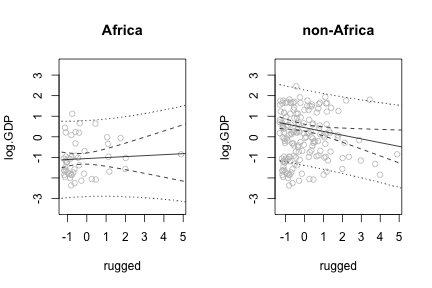
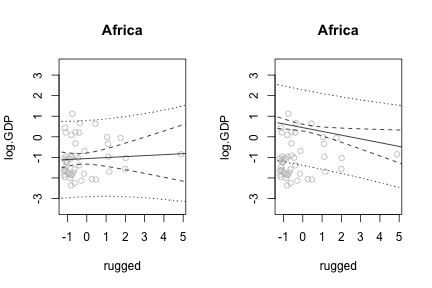
revised to include plotting code

diff --git a/hw6ashander.tex b/hw6ashander.tex
@@ -1,5 +1,4 @@
-%% lyx 2.1.0svn created this file.  For more info, see http://www.lyx.org/.
-%% Do not edit unless you really know what you are doing.
+
 \documentclass{article}
 \usepackage{graphicx, color}
 \newcommand{\hlnumber}[1]{\textcolor[rgb]{0,0,0}{#1}}%
@@ -510,39 +509,8 @@ There does still seem to be an interaction (the MLE is positive and 0 is not inc
 \hlstd{}\hlcomment{\usebox{\hlnormalsizeboxhash}{\ }first,{\ }with{\ }Seychelles}\hspace*{\fill}\\
 \hlstd{}\hlsymbol{post.full}{\ }\hlassignement{\usebox{\hlnormalsizeboxlessthan}-}{\ }\hlfunctioncall{sample.naive.posterior}\hlkeyword{(}\hlsymbol{m.full}\hlkeyword{)}\hspace*{\fill}\\
 \hlstd{}\hlsymbol{mu.coef}{\ }\hlassignement{\usebox{\hlnormalsizeboxlessthan}-}{\ }\hlfunctioncall{as.list}\hlkeyword{(}\hlfunctioncall{coef}\hlkeyword{(}\hlsymbol{m.full}\hlkeyword{)}\hlkeyword{)}\hspace*{\fill}\\
-\hlstd{}\hlsymbol{AFRICA}{\ }\hlassignement{\usebox{\hlnormalsizeboxlessthan}-}{\ }\hlnumber{1}\hspace*{\fill}\\
-\hlstd{}\hlcomment{\usebox{\hlnormalsizeboxhash}\usebox{\hlnormalsizeboxhash}PI.Afr{\ }\usebox{\hlnormalsizeboxlessthan}-{\ }sapply(rug.seq,{\ }function(z){\ }PCI(with(post.full,}\hspace*{\fill}\\
-\hlstd{}\hlcomment{\usebox{\hlnormalsizeboxhash}{\ }{\ }{\ }rnorm(n=NREP,mean=a+a.A*AFRICA+b.r*z+b.Ar*AFRICA*z,sd=sigma))))}\hspace*{\fill}\\
-\hlstd{}\hlsymbol{CI.Afr}{\ }\hlassignement{\usebox{\hlnormalsizeboxlessthan}-}{\ }\hlfunctioncall{sapply}\hlkeyword{(}\hlsymbol{rug.seq}\hlkeyword{,}{\ }\hlkeyword{function}\hlkeyword{(}\hlformalargs{z}\hlkeyword{)}{\ }\hlfunctioncall{PCI}\hlkeyword{(}\hlfunctioncall{with}\hlkeyword{(}\hlsymbol{post.full}\hlkeyword{,}\hspace*{\fill}\\
-\hlstd{}{\ }{\ }{\ }{\ }\hlsymbol{a}{\ }\hlkeyword{+}{\ }\hlsymbol{a.A}{\ }\hlkeyword{*}{\ }\hlsymbol{AFRICA}{\ }\hlkeyword{+}{\ }\hlsymbol{b.r}{\ }\hlkeyword{*}{\ }\hlsymbol{z}{\ }\hlkeyword{+}{\ }\hlsymbol{b.Ar}{\ }\hlkeyword{*}{\ }\hlsymbol{AFRICA}{\ }\hlkeyword{*}{\ }\hlsymbol{z}\hlkeyword{)}\hlkeyword{)}\hlkeyword{)}\hspace*{\fill}\\
-\hlstd{}\hlsymbol{mu.Afr}{\ }\hlassignement{\usebox{\hlnormalsizeboxlessthan}-}{\ }\hlfunctioncall{sapply}\hlkeyword{(}\hlsymbol{rug.seq}\hlkeyword{,}{\ }\hlkeyword{function}\hlkeyword{(}\hlformalargs{z}\hlkeyword{)}{\ }\hlfunctioncall{with}\hlkeyword{(}\hlsymbol{mu.coef}\hlkeyword{,}{\ }\hlsymbol{a}{\ }\hlkeyword{+}{\ }\hlsymbol{a.A}{\ }\hlkeyword{*}\hspace*{\fill}\\
-\hlstd{}{\ }{\ }{\ }{\ }\hlsymbol{AFRICA}{\ }\hlkeyword{+}{\ }\hlsymbol{b.r}{\ }\hlkeyword{*}{\ }\hlsymbol{z}{\ }\hlkeyword{+}{\ }\hlsymbol{b.Ar}{\ }\hlkeyword{*}{\ }\hlsymbol{AFRICA}{\ }\hlkeyword{*}{\ }\hlsymbol{z}\hlkeyword{)}\hlkeyword{)}\hspace*{\fill}\\
-\hlstd{}\hspace*{\fill}\\
-\hlstd{}\hlsymbol{AFRICA}{\ }\hlassignement{\usebox{\hlnormalsizeboxlessthan}-}{\ }\hlnumber{0}\hspace*{\fill}\\
-\hlstd{}\hlcomment{\usebox{\hlnormalsizeboxhash}\usebox{\hlnormalsizeboxhash}PI.noAfr{\ }\usebox{\hlnormalsizeboxlessthan}-{\ }sapply(rug.seq,{\ }function(z){\ }PCI(with(post.full,}\hspace*{\fill}\\
-\hlstd{}\hlcomment{\usebox{\hlnormalsizeboxhash}{\ }{\ }{\ }rnorm(n=NREP,mean=a+a.A*AFRICA+b.r*z+b.Ar*AFRICA*z,sd=sigma))))}\hspace*{\fill}\\
-\hlstd{}\hlsymbol{CI.noAfr}{\ }\hlassignement{\usebox{\hlnormalsizeboxlessthan}-}{\ }\hlfunctioncall{sapply}\hlkeyword{(}\hlsymbol{rug.seq}\hlkeyword{,}{\ }\hlkeyword{function}\hlkeyword{(}\hlformalargs{z}\hlkeyword{)}{\ }\hlfunctioncall{PCI}\hlkeyword{(}\hlfunctioncall{with}\hlkeyword{(}\hlsymbol{post.full}\hlkeyword{,}\hspace*{\fill}\\
-\hlstd{}{\ }{\ }{\ }{\ }\hlsymbol{a}{\ }\hlkeyword{+}{\ }\hlsymbol{a.A}{\ }\hlkeyword{*}{\ }\hlsymbol{AFRICA}{\ }\hlkeyword{+}{\ }\hlsymbol{b.r}{\ }\hlkeyword{*}{\ }\hlsymbol{z}{\ }\hlkeyword{+}{\ }\hlsymbol{b.Ar}{\ }\hlkeyword{*}{\ }\hlsymbol{AFRICA}{\ }\hlkeyword{*}{\ }\hlsymbol{z}\hlkeyword{)}\hlkeyword{)}\hlkeyword{)}\hspace*{\fill}\\
-\hlstd{}\hlsymbol{mu.noAfr}{\ }\hlassignement{\usebox{\hlnormalsizeboxlessthan}-}{\ }\hlfunctioncall{sapply}\hlkeyword{(}\hlsymbol{rug.seq}\hlkeyword{,}{\ }\hlkeyword{function}\hlkeyword{(}\hlformalargs{z}\hlkeyword{)}{\ }\hlfunctioncall{with}\hlkeyword{(}\hlsymbol{mu.coef}\hlkeyword{,}{\ }\hlsymbol{a}{\ }\hlkeyword{+}\hspace*{\fill}\\
-\hlstd{}{\ }{\ }{\ }{\ }\hlsymbol{a.A}{\ }\hlkeyword{*}{\ }\hlsymbol{AFRICA}{\ }\hlkeyword{+}{\ }\hlsymbol{b.r}{\ }\hlkeyword{*}{\ }\hlsymbol{z}{\ }\hlkeyword{+}{\ }\hlsymbol{b.Ar}{\ }\hlkeyword{*}{\ }\hlsymbol{AFRICA}{\ }\hlkeyword{*}{\ }\hlsymbol{z}\hlkeyword{)}\hlkeyword{)}\hspace*{\fill}\\
-\hlstd{}\hspace*{\fill}\\
 \hlstd{}\hlsymbol{post.nS}{\ }\hlassignement{\usebox{\hlnormalsizeboxlessthan}-}{\ }\hlfunctioncall{sample.naive.posterior}\hlkeyword{(}\hlsymbol{m.nS}\hlkeyword{)}\hspace*{\fill}\\
-\hlstd{}\hlsymbol{mu.coef.nS}{\ }\hlassignement{\usebox{\hlnormalsizeboxlessthan}-}{\ }\hlfunctioncall{as.list}\hlkeyword{(}\hlfunctioncall{coef}\hlkeyword{(}\hlsymbol{m.nS}\hlkeyword{)}\hlkeyword{)}\hspace*{\fill}\\
-\hlstd{}\hlsymbol{AFRICA}{\ }\hlassignement{\usebox{\hlnormalsizeboxlessthan}-}{\ }\hlnumber{1}\hspace*{\fill}\\
-\hlstd{}\hlcomment{\usebox{\hlnormalsizeboxhash}\usebox{\hlnormalsizeboxhash}PI.Afr.nS{\ }\usebox{\hlnormalsizeboxlessthan}-{\ }sapply(rug.seq,{\ }function(z){\ }PCI(with(post.nS,}\hspace*{\fill}\\
-\hlstd{}\hlcomment{\usebox{\hlnormalsizeboxhash}{\ }{\ }{\ }rnorm(n=NREP,mean=a+a.A*AFRICA+b.r*z+b.Ar*AFRICA*z,sd=sigma))))}\hspace*{\fill}\\
-\hlstd{}\hlsymbol{CI.Afr.nS}{\ }\hlassignement{\usebox{\hlnormalsizeboxlessthan}-}{\ }\hlfunctioncall{sapply}\hlkeyword{(}\hlsymbol{rug.seq}\hlkeyword{,}{\ }\hlkeyword{function}\hlkeyword{(}\hlformalargs{z}\hlkeyword{)}{\ }\hlfunctioncall{PCI}\hlkeyword{(}\hlfunctioncall{with}\hlkeyword{(}\hlsymbol{post.nS}\hlkeyword{,}\hspace*{\fill}\\
-\hlstd{}{\ }{\ }{\ }{\ }\hlsymbol{a}{\ }\hlkeyword{+}{\ }\hlsymbol{a.A}{\ }\hlkeyword{*}{\ }\hlsymbol{AFRICA}{\ }\hlkeyword{+}{\ }\hlsymbol{b.r}{\ }\hlkeyword{*}{\ }\hlsymbol{z}{\ }\hlkeyword{+}{\ }\hlsymbol{b.Ar}{\ }\hlkeyword{*}{\ }\hlsymbol{AFRICA}{\ }\hlkeyword{*}{\ }\hlsymbol{z}\hlkeyword{)}\hlkeyword{)}\hlkeyword{)}\hspace*{\fill}\\
-\hlstd{}\hlsymbol{mu.Afr.nS}{\ }\hlassignement{\usebox{\hlnormalsizeboxlessthan}-}{\ }\hlfunctioncall{sapply}\hlkeyword{(}\hlsymbol{rug.seq}\hlkeyword{,}{\ }\hlkeyword{function}\hlkeyword{(}\hlformalargs{z}\hlkeyword{)}{\ }\hlfunctioncall{with}\hlkeyword{(}\hlsymbol{mu.coef.nS}\hlkeyword{,}\hspace*{\fill}\\
-\hlstd{}{\ }{\ }{\ }{\ }\hlsymbol{a}{\ }\hlkeyword{+}{\ }\hlsymbol{a.A}{\ }\hlkeyword{*}{\ }\hlsymbol{AFRICA}{\ }\hlkeyword{+}{\ }\hlsymbol{b.r}{\ }\hlkeyword{*}{\ }\hlsymbol{z}{\ }\hlkeyword{+}{\ }\hlsymbol{b.Ar}{\ }\hlkeyword{*}{\ }\hlsymbol{AFRICA}{\ }\hlkeyword{*}{\ }\hlsymbol{z}\hlkeyword{)}\hlkeyword{)}\hspace*{\fill}\\
-\hlstd{}\hspace*{\fill}\\
-\hlstd{}\hlsymbol{AFRICA}{\ }\hlassignement{\usebox{\hlnormalsizeboxlessthan}-}{\ }\hlnumber{0}\hspace*{\fill}\\
-\hlstd{}\hlcomment{\usebox{\hlnormalsizeboxhash}\usebox{\hlnormalsizeboxhash}PI.noAfr.nS{\ }\usebox{\hlnormalsizeboxlessthan}-{\ }sapply(rug.seq,{\ }function(z){\ }PCI(with(post.nS,}\hspace*{\fill}\\
-\hlstd{}\hlcomment{\usebox{\hlnormalsizeboxhash}{\ }{\ }{\ }rnorm(n=NREP,mean=a+a.A*AFRICA+b.r*z+b.Ar*AFRICA*z,sd=sigma))))}\hspace*{\fill}\\
-\hlstd{}\hlsymbol{CI.noAfr.nS}{\ }\hlassignement{\usebox{\hlnormalsizeboxlessthan}-}{\ }\hlfunctioncall{sapply}\hlkeyword{(}\hlsymbol{rug.seq}\hlkeyword{,}{\ }\hlkeyword{function}\hlkeyword{(}\hlformalargs{z}\hlkeyword{)}{\ }\hlfunctioncall{PCI}\hlkeyword{(}\hlfunctioncall{with}\hlkeyword{(}\hlsymbol{post.nS}\hlkeyword{,}\hspace*{\fill}\\
-\hlstd{}{\ }{\ }{\ }{\ }\hlsymbol{a}{\ }\hlkeyword{+}{\ }\hlsymbol{a.A}{\ }\hlkeyword{*}{\ }\hlsymbol{AFRICA}{\ }\hlkeyword{+}{\ }\hlsymbol{b.r}{\ }\hlkeyword{*}{\ }\hlsymbol{z}{\ }\hlkeyword{+}{\ }\hlsymbol{b.Ar}{\ }\hlkeyword{*}{\ }\hlsymbol{AFRICA}{\ }\hlkeyword{*}{\ }\hlsymbol{z}\hlkeyword{)}\hlkeyword{)}\hlkeyword{)}\hspace*{\fill}\\
-\hlstd{}\hlsymbol{mu.noAfr.nS}{\ }\hlassignement{\usebox{\hlnormalsizeboxlessthan}-}{\ }\hlfunctioncall{sapply}\hlkeyword{(}\hlsymbol{rug.seq}\hlkeyword{,}{\ }\hlkeyword{function}\hlkeyword{(}\hlformalargs{z}\hlkeyword{)}{\ }\hlfunctioncall{with}\hlkeyword{(}\hlsymbol{mu.coef.nS}\hlkeyword{,}\hspace*{\fill}\\
-\hlstd{}{\ }{\ }{\ }{\ }\hlsymbol{a}{\ }\hlkeyword{+}{\ }\hlsymbol{a.A}{\ }\hlkeyword{*}{\ }\hlsymbol{AFRICA}{\ }\hlkeyword{+}{\ }\hlsymbol{b.r}{\ }\hlkeyword{*}{\ }\hlsymbol{z}{\ }\hlkeyword{+}{\ }\hlsymbol{b.Ar}{\ }\hlkeyword{*}{\ }\hlsymbol{AFRICA}{\ }\hlkeyword{*}{\ }\hlsymbol{z}\hlkeyword{)}\hlkeyword{)}\mbox{}
+\hlstd{}\hlsymbol{mu.coef.nS}{\ }\hlassignement{\usebox{\hlnormalsizeboxlessthan}-}{\ }\hlfunctioncall{as.list}\hlkeyword{(}\hlfunctioncall{coef}\hlkeyword{(}\hlsymbol{m.nS}\hlkeyword{)}\hlkeyword{)}\mbox{}
 \normalfont
 \end{flushleft}
 \end{kframe}}
@@ -551,7 +519,30 @@ There does still seem to be an interaction (the MLE is positive and 0 is not inc
 
 \begin{knitrout}
 \definecolor{shadecolor}{rgb}{.97, .97, .97}{\color{fgcolor}\begin{kframe}
-\includegraphics{with-sey} \end{kframe}}
+\begin{flushleft}
+\ttfamily\noindent
+\hlsymbol{op}{\ }\hlassignement{\usebox{\hlnormalsizeboxlessthan}-}{\ }\hlfunctioncall{par}\hlkeyword{(}\hlargument{mfrow}{\ }\hlargument{=}{\ }\hlfunctioncall{c}\hlkeyword{(}\hlnumber{1}\hlkeyword{,}{\ }\hlnumber{2}\hlkeyword{)}\hlkeyword{)}\hspace*{\fill}\\
+\hlstd{}\hlkeyword{for}{\ }\hlkeyword{(}\hlsymbol{AFRICA}{\ }\hlkeyword{in}{\ }\hlfunctioncall{c}\hlkeyword{(}\hlnumber{1}\hlkeyword{,}{\ }\hlnumber{0}\hlkeyword{)}\hlkeyword{)}{\ }\hlkeyword{\usebox{\hlnormalsizeboxopenbrace}}\hspace*{\fill}\\
+\hlstd{}{\ }{\ }{\ }{\ }\hlcomment{\usebox{\hlnormalsizeboxhash}\usebox{\hlnormalsizeboxhash}PI{\ }\usebox{\hlnormalsizeboxlessthan}-{\ }sapply(rug.seq,{\ }function(z){\ }PCI(with(post.full,}\hspace*{\fill}\\
+\hlstd{}{\ }{\ }{\ }{\ }\hlcomment{\usebox{\hlnormalsizeboxhash}{\ }{\ }{\ }rnorm(n=NREP,mean=a+a.A*AFRICA+b.r*z+b.Ar*AFRICA*z,sd=sigma))))}\hspace*{\fill}\\
+\hlstd{}{\ }{\ }{\ }{\ }\hlsymbol{CI}{\ }\hlassignement{\usebox{\hlnormalsizeboxlessthan}-}{\ }\hlfunctioncall{sapply}\hlkeyword{(}\hlsymbol{rug.seq}\hlkeyword{,}{\ }\hlkeyword{function}\hlkeyword{(}\hlformalargs{z}\hlkeyword{)}{\ }\hlfunctioncall{PCI}\hlkeyword{(}\hlfunctioncall{with}\hlkeyword{(}\hlsymbol{post.full}\hlkeyword{,}{\ }\hlsymbol{a}{\ }\hlkeyword{+}{\ }\hlsymbol{a.A}{\ }\hlkeyword{*}\hspace*{\fill}\\
+\hlstd{}{\ }{\ }{\ }{\ }{\ }{\ }{\ }{\ }\hlsymbol{AFRICA}{\ }\hlkeyword{+}{\ }\hlsymbol{b.r}{\ }\hlkeyword{*}{\ }\hlsymbol{z}{\ }\hlkeyword{+}{\ }\hlsymbol{b.Ar}{\ }\hlkeyword{*}{\ }\hlsymbol{AFRICA}{\ }\hlkeyword{*}{\ }\hlsymbol{z}\hlkeyword{)}\hlkeyword{)}\hlkeyword{)}\hspace*{\fill}\\
+\hlstd{}{\ }{\ }{\ }{\ }\hlsymbol{mu}{\ }\hlassignement{\usebox{\hlnormalsizeboxlessthan}-}{\ }\hlfunctioncall{sapply}\hlkeyword{(}\hlsymbol{rug.seq}\hlkeyword{,}{\ }\hlkeyword{function}\hlkeyword{(}\hlformalargs{z}\hlkeyword{)}{\ }\hlfunctioncall{with}\hlkeyword{(}\hlsymbol{mu.coef}\hlkeyword{,}{\ }\hlsymbol{a}{\ }\hlkeyword{+}{\ }\hlsymbol{a.A}{\ }\hlkeyword{*}{\ }\hlsymbol{AFRICA}{\ }\hlkeyword{+}\hspace*{\fill}\\
+\hlstd{}{\ }{\ }{\ }{\ }{\ }{\ }{\ }{\ }\hlsymbol{b.r}{\ }\hlkeyword{*}{\ }\hlsymbol{z}{\ }\hlkeyword{+}{\ }\hlsymbol{b.Ar}{\ }\hlkeyword{*}{\ }\hlsymbol{AFRICA}{\ }\hlkeyword{*}{\ }\hlsymbol{z}\hlkeyword{)}\hlkeyword{)}\hspace*{\fill}\\
+\hlstd{}{\ }{\ }{\ }{\ }\hlfunctioncall{plot}\hlkeyword{(}\hlsymbol{log.GDP}{\ }\hlkeyword{\urltilda{}}{\ }\hlsymbol{rugged}\hlkeyword{,}{\ }\hlargument{data}{\ }\hlargument{=}{\ }\hlsymbol{d.rc}\hlkeyword{[}\hlsymbol{d.rc}\hlkeyword{\usebox{\hlnormalsizeboxdollar}}\hlsymbol{Africa.i}{\ }=={\ }\hlnumber{1}\hlkeyword{,}{\ }\hlkeyword{]}\hlkeyword{,}{\ }\hlargument{ylim}{\ }\hlargument{=}{\ }\hlfunctioncall{c}\hlkeyword{(}\hlkeyword{-}\hlnumber{3.5}\hlkeyword{,}\hspace*{\fill}\\
+\hlstd{}{\ }{\ }{\ }{\ }{\ }{\ }{\ }{\ }\hlnumber{3.5}\hlkeyword{)}\hlkeyword{,}{\ }\hlargument{main}{\ }\hlargument{=}{\ }\hlstring{"Africa"}\hlkeyword{,}{\ }\hlargument{col}{\ }\hlargument{=}{\ }\hlfunctioncall{col.alpha}\hlkeyword{(}\hlstring{"gray"}\hlkeyword{,}{\ }\hlnumber{0.9}\hlkeyword{)}\hlkeyword{)}\hspace*{\fill}\\
+\hlstd{}{\ }{\ }{\ }{\ }\hlfunctioncall{lines}\hlkeyword{(}\hlsymbol{CI}\hlkeyword{[}\hlnumber{1}\hlkeyword{,}{\ }\hlkeyword{]}{\ }\hlkeyword{\urltilda{}}{\ }\hlsymbol{rug.seq}\hlkeyword{,}{\ }\hlargument{lty}{\ }\hlargument{=}{\ }\hlnumber{2}\hlkeyword{)}\hspace*{\fill}\\
+\hlstd{}{\ }{\ }{\ }{\ }\hlfunctioncall{lines}\hlkeyword{(}\hlsymbol{CI}\hlkeyword{[}\hlnumber{2}\hlkeyword{,}{\ }\hlkeyword{]}{\ }\hlkeyword{\urltilda{}}{\ }\hlsymbol{rug.seq}\hlkeyword{,}{\ }\hlargument{lty}{\ }\hlargument{=}{\ }\hlnumber{2}\hlkeyword{)}\hspace*{\fill}\\
+\hlstd{}{\ }{\ }{\ }{\ }\hlfunctioncall{lines}\hlkeyword{(}\hlsymbol{mu}{\ }\hlkeyword{\urltilda{}}{\ }\hlsymbol{rug.seq}\hlkeyword{)}\hspace*{\fill}\\
+\hlstd{}\hlkeyword{\usebox{\hlnormalsizeboxclosebrace}}\mbox{}
+\normalfont
+\end{flushleft}
+\includegraphics{with-sey} \begin{flushleft}
+\ttfamily\noindent
+\hlfunctioncall{par}\hlkeyword{(}\hlsymbol{op}\hlkeyword{)}\mbox{}
+\normalfont
+\end{flushleft}
+\end{kframe}}
 \end{knitrout}
 
 Model with Seychelles
@@ -564,14 +555,36 @@ Model with Seychelles
 Posterior densities for effect of ruggedness inside and outside Africa from model {\em with} Seychelles.
 
 
-
 \begin{knitrout}
 \definecolor{shadecolor}{rgb}{.97, .97, .97}{\color{fgcolor}\begin{kframe}
-\includegraphics{no-sey} \end{kframe}}
+\begin{flushleft}
+\ttfamily\noindent
+\hlsymbol{op}{\ }\hlassignement{\usebox{\hlnormalsizeboxlessthan}-}{\ }\hlfunctioncall{par}\hlkeyword{(}\hlargument{mfrow}{\ }\hlargument{=}{\ }\hlfunctioncall{c}\hlkeyword{(}\hlnumber{1}\hlkeyword{,}{\ }\hlnumber{2}\hlkeyword{)}\hlkeyword{)}\hspace*{\fill}\\
+\hlstd{}\hlkeyword{for}{\ }\hlkeyword{(}\hlsymbol{AFRICA}{\ }\hlkeyword{in}{\ }\hlfunctioncall{c}\hlkeyword{(}\hlnumber{1}\hlkeyword{,}{\ }\hlnumber{0}\hlkeyword{)}\hlkeyword{)}{\ }\hlkeyword{\usebox{\hlnormalsizeboxopenbrace}}\hspace*{\fill}\\
+\hlstd{}{\ }{\ }{\ }{\ }\hlcomment{\usebox{\hlnormalsizeboxhash}\usebox{\hlnormalsizeboxhash}PI{\ }\usebox{\hlnormalsizeboxlessthan}-{\ }sapply(rug.seq,{\ }function(z){\ }PCI(with(post.nS,}\hspace*{\fill}\\
+\hlstd{}{\ }{\ }{\ }{\ }\hlcomment{\usebox{\hlnormalsizeboxhash}{\ }{\ }{\ }rnorm(n=NREP,mean=a+a.A*AFRICA+b.r*z+b.Ar*AFRICA*z,sd=sigma))))}\hspace*{\fill}\\
+\hlstd{}{\ }{\ }{\ }{\ }\hlsymbol{CI}{\ }\hlassignement{\usebox{\hlnormalsizeboxlessthan}-}{\ }\hlfunctioncall{sapply}\hlkeyword{(}\hlsymbol{rug.seq}\hlkeyword{,}{\ }\hlkeyword{function}\hlkeyword{(}\hlformalargs{z}\hlkeyword{)}{\ }\hlfunctioncall{PCI}\hlkeyword{(}\hlfunctioncall{with}\hlkeyword{(}\hlsymbol{post.nS}\hlkeyword{,}{\ }\hlsymbol{a}{\ }\hlkeyword{+}{\ }\hlsymbol{a.A}{\ }\hlkeyword{*}{\ }\hlsymbol{AFRICA}{\ }\hlkeyword{+}\hspace*{\fill}\\
+\hlstd{}{\ }{\ }{\ }{\ }{\ }{\ }{\ }{\ }\hlsymbol{b.r}{\ }\hlkeyword{*}{\ }\hlsymbol{z}{\ }\hlkeyword{+}{\ }\hlsymbol{b.Ar}{\ }\hlkeyword{*}{\ }\hlsymbol{AFRICA}{\ }\hlkeyword{*}{\ }\hlsymbol{z}\hlkeyword{)}\hlkeyword{)}\hlkeyword{)}\hspace*{\fill}\\
+\hlstd{}{\ }{\ }{\ }{\ }\hlsymbol{mu}{\ }\hlassignement{\usebox{\hlnormalsizeboxlessthan}-}{\ }\hlfunctioncall{sapply}\hlkeyword{(}\hlsymbol{rug.seq}\hlkeyword{,}{\ }\hlkeyword{function}\hlkeyword{(}\hlformalargs{z}\hlkeyword{)}{\ }\hlfunctioncall{with}\hlkeyword{(}\hlsymbol{mu.coef.nS}\hlkeyword{,}{\ }\hlsymbol{a}{\ }\hlkeyword{+}{\ }\hlsymbol{a.A}{\ }\hlkeyword{*}{\ }\hlsymbol{AFRICA}{\ }\hlkeyword{+}\hspace*{\fill}\\
+\hlstd{}{\ }{\ }{\ }{\ }{\ }{\ }{\ }{\ }\hlsymbol{b.r}{\ }\hlkeyword{*}{\ }\hlsymbol{z}{\ }\hlkeyword{+}{\ }\hlsymbol{b.Ar}{\ }\hlkeyword{*}{\ }\hlsymbol{AFRICA}{\ }\hlkeyword{*}{\ }\hlsymbol{z}\hlkeyword{)}\hlkeyword{)}\hspace*{\fill}\\
+\hlstd{}\hspace*{\fill}\\
+\hlstd{}{\ }{\ }{\ }{\ }\hlfunctioncall{plot}\hlkeyword{(}\hlsymbol{log.GDP}{\ }\hlkeyword{\urltilda{}}{\ }\hlsymbol{rugged}\hlkeyword{,}{\ }\hlargument{data}{\ }\hlargument{=}{\ }\hlsymbol{d.noS}\hlkeyword{[}\hlsymbol{d.rc}\hlkeyword{\usebox{\hlnormalsizeboxdollar}}\hlsymbol{Africa.i}{\ }=={\ }\hlnumber{1}\hlkeyword{,}{\ }\hlkeyword{]}\hlkeyword{,}{\ }\hlargument{ylim}{\ }\hlargument{=}{\ }\hlfunctioncall{c}\hlkeyword{(}\hlkeyword{-}\hlnumber{3.5}\hlkeyword{,}\hspace*{\fill}\\
+\hlstd{}{\ }{\ }{\ }{\ }{\ }{\ }{\ }{\ }\hlnumber{3.5}\hlkeyword{)}\hlkeyword{,}{\ }\hlargument{main}{\ }\hlargument{=}{\ }\hlstring{"Africa"}\hlkeyword{,}{\ }\hlargument{col}{\ }\hlargument{=}{\ }\hlfunctioncall{col.alpha}\hlkeyword{(}\hlstring{"gray"}\hlkeyword{,}{\ }\hlnumber{0.9}\hlkeyword{)}\hlkeyword{)}\hspace*{\fill}\\
+\hlstd{}{\ }{\ }{\ }{\ }\hlfunctioncall{lines}\hlkeyword{(}\hlsymbol{CI}\hlkeyword{[}\hlnumber{1}\hlkeyword{,}{\ }\hlkeyword{]}{\ }\hlkeyword{\urltilda{}}{\ }\hlsymbol{rug.seq}\hlkeyword{,}{\ }\hlargument{lty}{\ }\hlargument{=}{\ }\hlnumber{2}\hlkeyword{)}\hspace*{\fill}\\
+\hlstd{}{\ }{\ }{\ }{\ }\hlfunctioncall{lines}\hlkeyword{(}\hlsymbol{CI}\hlkeyword{[}\hlnumber{2}\hlkeyword{,}{\ }\hlkeyword{]}{\ }\hlkeyword{\urltilda{}}{\ }\hlsymbol{rug.seq}\hlkeyword{,}{\ }\hlargument{lty}{\ }\hlargument{=}{\ }\hlnumber{2}\hlkeyword{)}\hspace*{\fill}\\
+\hlstd{}{\ }{\ }{\ }{\ }\hlfunctioncall{lines}\hlkeyword{(}\hlsymbol{mu}{\ }\hlkeyword{\urltilda{}}{\ }\hlsymbol{rug.seq}\hlkeyword{)}\hspace*{\fill}\\
+\hlstd{}\hlkeyword{\usebox{\hlnormalsizeboxclosebrace}}\mbox{}
+\normalfont
+\end{flushleft}
+\includegraphics{no-sey} \begin{flushleft}
+\ttfamily\noindent
+\hlfunctioncall{par}\hlkeyword{(}\hlsymbol{op}\hlkeyword{)}\mbox{}
+\normalfont
+\end{flushleft}
+\end{kframe}}
 \end{knitrout}
 
 Model without Seychelles
-
 
 \begin{knitrout}
 \definecolor{shadecolor}{rgb}{.97, .97, .97}{\color{fgcolor}\begin{kframe}
@@ -579,8 +592,6 @@ Model without Seychelles
 \end{knitrout}
 
 Posterior densities for effect of ruggedness inside and outside Africa from model without Seychelles.
-
-
 
 (c) 
 
@@ -643,35 +654,41 @@ Posterior densities for effect of ruggedness inside and outside Africa from mode
 \hspace*{\fill}\\
 \hlstd{}\hlsymbol{mu.coef}{\ }\hlassignement{\usebox{\hlnormalsizeboxlessthan}-}{\ }\hlfunctioncall{as.list}\hlkeyword{(}\hlfunctioncall{colMeans}\hlkeyword{(}\hlsymbol{post.noS}\hlkeyword{)}\hlkeyword{)}\hspace*{\fill}\\
 \hlstd{}\hlsymbol{rug.seq}{\ }\hlassignement{\usebox{\hlnormalsizeboxlessthan}-}{\ }\hlfunctioncall{with}\hlkeyword{(}\hlsymbol{d.noS}\hlkeyword{,}{\ }\hlfunctioncall{seq}\hlkeyword{(}\hlfunctioncall{min}\hlkeyword{(}\hlsymbol{rugged}\hlkeyword{)}\hlkeyword{,}{\ }\hlfunctioncall{max}\hlkeyword{(}\hlsymbol{rugged}\hlkeyword{)}{\ }\hlkeyword{+}{\ }\hlnumber{2}\hlkeyword{,}\hspace*{\fill}\\
-\hlstd{}{\ }{\ }{\ }{\ }\hlargument{length.out}{\ }\hlargument{=}{\ }\hlnumber{100}\hlkeyword{)}\hlkeyword{)}\hspace*{\fill}\\
-\hlstd{}\hspace*{\fill}\\
-\hlstd{}\hlsymbol{AFRICA}{\ }\hlassignement{\usebox{\hlnormalsizeboxlessthan}-}{\ }\hlnumber{1}\hspace*{\fill}\\
-\hlstd{}\hlsymbol{PI.Afr}{\ }\hlassignement{\usebox{\hlnormalsizeboxlessthan}-}{\ }\hlfunctioncall{sapply}\hlkeyword{(}\hlsymbol{rug.seq}\hlkeyword{,}{\ }\hlkeyword{function}\hlkeyword{(}\hlformalargs{z}\hlkeyword{)}{\ }\hlfunctioncall{PCI}\hlkeyword{(}\hlfunctioncall{with}\hlkeyword{(}\hlsymbol{post.noS}\hlkeyword{,}\hspace*{\fill}\\
-\hlstd{}{\ }{\ }{\ }{\ }\hlfunctioncall{rnorm}\hlkeyword{(}\hlargument{n}{\ }\hlargument{=}{\ }\hlsymbol{NREP}\hlkeyword{,}{\ }\hlargument{mean}{\ }\hlargument{=}{\ }\hlsymbol{a}{\ }\hlkeyword{+}{\ }\hlsymbol{b1}{\ }\hlkeyword{*}{\ }\hlsymbol{AFRICA}{\ }\hlkeyword{+}{\ }\hlsymbol{b2}{\ }\hlkeyword{*}{\ }\hlsymbol{z}{\ }\hlkeyword{+}{\ }\hlsymbol{b3}{\ }\hlkeyword{*}{\ }\hlsymbol{AFRICA}{\ }\hlkeyword{*}\hspace*{\fill}\\
-\hlstd{}{\ }{\ }{\ }{\ }{\ }{\ }{\ }{\ }\hlsymbol{z}\hlkeyword{,}{\ }\hlargument{sd}{\ }\hlargument{=}{\ }\hlnumber{1}\hlkeyword{/}\hlsymbol{tau}\hlkeyword{)}\hlkeyword{)}\hlkeyword{)}\hlkeyword{)}\hspace*{\fill}\\
-\hlstd{}\hlsymbol{CI.Afr}{\ }\hlassignement{\usebox{\hlnormalsizeboxlessthan}-}{\ }\hlfunctioncall{sapply}\hlkeyword{(}\hlsymbol{rug.seq}\hlkeyword{,}{\ }\hlkeyword{function}\hlkeyword{(}\hlformalargs{z}\hlkeyword{)}{\ }\hlfunctioncall{PCI}\hlkeyword{(}\hlfunctioncall{with}\hlkeyword{(}\hlsymbol{post.noS}\hlkeyword{,}\hspace*{\fill}\\
-\hlstd{}{\ }{\ }{\ }{\ }\hlsymbol{a}{\ }\hlkeyword{+}{\ }\hlsymbol{b1}{\ }\hlkeyword{*}{\ }\hlsymbol{AFRICA}{\ }\hlkeyword{+}{\ }\hlsymbol{b2}{\ }\hlkeyword{*}{\ }\hlsymbol{z}{\ }\hlkeyword{+}{\ }\hlsymbol{b3}{\ }\hlkeyword{*}{\ }\hlsymbol{AFRICA}{\ }\hlkeyword{*}{\ }\hlsymbol{z}\hlkeyword{)}\hlkeyword{)}\hlkeyword{)}\hspace*{\fill}\\
-\hlstd{}\hlsymbol{mu.Afr}{\ }\hlassignement{\usebox{\hlnormalsizeboxlessthan}-}{\ }\hlfunctioncall{sapply}\hlkeyword{(}\hlsymbol{rug.seq}\hlkeyword{,}{\ }\hlkeyword{function}\hlkeyword{(}\hlformalargs{z}\hlkeyword{)}{\ }\hlfunctioncall{with}\hlkeyword{(}\hlsymbol{mu.coef}\hlkeyword{,}{\ }\hlsymbol{a}{\ }\hlkeyword{+}{\ }\hlsymbol{b1}{\ }\hlkeyword{*}\hspace*{\fill}\\
-\hlstd{}{\ }{\ }{\ }{\ }\hlsymbol{AFRICA}{\ }\hlkeyword{+}{\ }\hlsymbol{b2}{\ }\hlkeyword{*}{\ }\hlsymbol{z}{\ }\hlkeyword{+}{\ }\hlsymbol{b3}{\ }\hlkeyword{*}{\ }\hlsymbol{AFRICA}{\ }\hlkeyword{*}{\ }\hlsymbol{z}\hlkeyword{)}\hlkeyword{)}\hspace*{\fill}\\
-\hlstd{}\hspace*{\fill}\\
-\hlstd{}\hlsymbol{AFRICA}{\ }\hlassignement{\usebox{\hlnormalsizeboxlessthan}-}{\ }\hlnumber{0}\hspace*{\fill}\\
-\hlstd{}\hlsymbol{PI.noAfr}{\ }\hlassignement{\usebox{\hlnormalsizeboxlessthan}-}{\ }\hlfunctioncall{sapply}\hlkeyword{(}\hlsymbol{rug.seq}\hlkeyword{,}{\ }\hlkeyword{function}\hlkeyword{(}\hlformalargs{z}\hlkeyword{)}{\ }\hlfunctioncall{PCI}\hlkeyword{(}\hlfunctioncall{with}\hlkeyword{(}\hlsymbol{post.noS}\hlkeyword{,}\hspace*{\fill}\\
-\hlstd{}{\ }{\ }{\ }{\ }\hlfunctioncall{rnorm}\hlkeyword{(}\hlargument{n}{\ }\hlargument{=}{\ }\hlsymbol{NREP}\hlkeyword{,}{\ }\hlargument{mean}{\ }\hlargument{=}{\ }\hlsymbol{a}{\ }\hlkeyword{+}{\ }\hlsymbol{b1}{\ }\hlkeyword{*}{\ }\hlsymbol{AFRICA}{\ }\hlkeyword{+}{\ }\hlsymbol{b2}{\ }\hlkeyword{*}{\ }\hlsymbol{z}{\ }\hlkeyword{+}{\ }\hlsymbol{b3}{\ }\hlkeyword{*}{\ }\hlsymbol{AFRICA}{\ }\hlkeyword{*}\hspace*{\fill}\\
-\hlstd{}{\ }{\ }{\ }{\ }{\ }{\ }{\ }{\ }\hlsymbol{z}\hlkeyword{,}{\ }\hlargument{sd}{\ }\hlargument{=}{\ }\hlnumber{1}\hlkeyword{/}\hlsymbol{tau}\hlkeyword{)}\hlkeyword{)}\hlkeyword{)}\hlkeyword{)}\hspace*{\fill}\\
-\hlstd{}\hlsymbol{CI.noAfr}{\ }\hlassignement{\usebox{\hlnormalsizeboxlessthan}-}{\ }\hlfunctioncall{sapply}\hlkeyword{(}\hlsymbol{rug.seq}\hlkeyword{,}{\ }\hlkeyword{function}\hlkeyword{(}\hlformalargs{z}\hlkeyword{)}{\ }\hlfunctioncall{PCI}\hlkeyword{(}\hlfunctioncall{with}\hlkeyword{(}\hlsymbol{post.noS}\hlkeyword{,}\hspace*{\fill}\\
-\hlstd{}{\ }{\ }{\ }{\ }\hlsymbol{a}{\ }\hlkeyword{+}{\ }\hlsymbol{b1}{\ }\hlkeyword{*}{\ }\hlsymbol{AFRICA}{\ }\hlkeyword{+}{\ }\hlsymbol{b2}{\ }\hlkeyword{*}{\ }\hlsymbol{z}{\ }\hlkeyword{+}{\ }\hlsymbol{b3}{\ }\hlkeyword{*}{\ }\hlsymbol{AFRICA}{\ }\hlkeyword{*}{\ }\hlsymbol{z}\hlkeyword{)}\hlkeyword{)}\hlkeyword{)}\hspace*{\fill}\\
-\hlstd{}\hlsymbol{mu.noAfr}{\ }\hlassignement{\usebox{\hlnormalsizeboxlessthan}-}{\ }\hlfunctioncall{sapply}\hlkeyword{(}\hlsymbol{rug.seq}\hlkeyword{,}{\ }\hlkeyword{function}\hlkeyword{(}\hlformalargs{z}\hlkeyword{)}{\ }\hlfunctioncall{with}\hlkeyword{(}\hlsymbol{mu.coef}\hlkeyword{,}{\ }\hlsymbol{a}{\ }\hlkeyword{+}\hspace*{\fill}\\
-\hlstd{}{\ }{\ }{\ }{\ }\hlsymbol{b1}{\ }\hlkeyword{*}{\ }\hlsymbol{AFRICA}{\ }\hlkeyword{+}{\ }\hlsymbol{b2}{\ }\hlkeyword{*}{\ }\hlsymbol{z}{\ }\hlkeyword{+}{\ }\hlsymbol{b3}{\ }\hlkeyword{*}{\ }\hlsymbol{AFRICA}{\ }\hlkeyword{*}{\ }\hlsymbol{z}\hlkeyword{)}\hlkeyword{)}\mbox{}
+\hlstd{}{\ }{\ }{\ }{\ }\hlargument{length.out}{\ }\hlargument{=}{\ }\hlnumber{100}\hlkeyword{)}\hlkeyword{)}\mbox{}
 \normalfont
 \end{flushleft}
 \end{kframe}}
 \end{knitrout}
 
 
-
 \begin{knitrout}
 \definecolor{shadecolor}{rgb}{.97, .97, .97}{\color{fgcolor}\begin{kframe}
-\includegraphics{AICc-avg} \end{kframe}}
+\begin{flushleft}
+\ttfamily\noindent
+\hlsymbol{op}{\ }\hlassignement{\usebox{\hlnormalsizeboxlessthan}-}{\ }\hlfunctioncall{par}\hlkeyword{(}\hlargument{mfrow}{\ }\hlargument{=}{\ }\hlfunctioncall{c}\hlkeyword{(}\hlnumber{1}\hlkeyword{,}{\ }\hlnumber{2}\hlkeyword{)}\hlkeyword{)}\hspace*{\fill}\\
+\hlstd{}\hlkeyword{for}{\ }\hlkeyword{(}\hlsymbol{AFRICA}{\ }\hlkeyword{in}{\ }\hlfunctioncall{c}\hlkeyword{(}\hlnumber{1}\hlkeyword{,}{\ }\hlnumber{0}\hlkeyword{)}\hlkeyword{)}{\ }\hlkeyword{\usebox{\hlnormalsizeboxopenbrace}}\hspace*{\fill}\\
+\hlstd{}{\ }{\ }{\ }{\ }\hlsymbol{PI}{\ }\hlassignement{\usebox{\hlnormalsizeboxlessthan}-}{\ }\hlfunctioncall{sapply}\hlkeyword{(}\hlsymbol{rug.seq}\hlkeyword{,}{\ }\hlkeyword{function}\hlkeyword{(}\hlformalargs{z}\hlkeyword{)}{\ }\hlfunctioncall{PCI}\hlkeyword{(}\hlfunctioncall{with}\hlkeyword{(}\hlsymbol{post.noS}\hlkeyword{,}{\ }\hlfunctioncall{rnorm}\hlkeyword{(}\hlargument{n}{\ }\hlargument{=}{\ }\hlsymbol{NREP}\hlkeyword{,}\hspace*{\fill}\\
+\hlstd{}{\ }{\ }{\ }{\ }{\ }{\ }{\ }{\ }\hlargument{mean}{\ }\hlargument{=}{\ }\hlsymbol{a}{\ }\hlkeyword{+}{\ }\hlsymbol{b1}{\ }\hlkeyword{*}{\ }\hlsymbol{AFRICA}{\ }\hlkeyword{+}{\ }\hlsymbol{b2}{\ }\hlkeyword{*}{\ }\hlsymbol{z}{\ }\hlkeyword{+}{\ }\hlsymbol{b3}{\ }\hlkeyword{*}{\ }\hlsymbol{AFRICA}{\ }\hlkeyword{*}{\ }\hlsymbol{z}\hlkeyword{,}{\ }\hlargument{sd}{\ }\hlargument{=}{\ }\hlnumber{1}\hlkeyword{/}\hlsymbol{tau}\hlkeyword{)}\hlkeyword{)}\hlkeyword{)}\hlkeyword{)}\hspace*{\fill}\\
+\hlstd{}{\ }{\ }{\ }{\ }\hlsymbol{CI}{\ }\hlassignement{\usebox{\hlnormalsizeboxlessthan}-}{\ }\hlfunctioncall{sapply}\hlkeyword{(}\hlsymbol{rug.seq}\hlkeyword{,}{\ }\hlkeyword{function}\hlkeyword{(}\hlformalargs{z}\hlkeyword{)}{\ }\hlfunctioncall{PCI}\hlkeyword{(}\hlfunctioncall{with}\hlkeyword{(}\hlsymbol{post.noS}\hlkeyword{,}{\ }\hlsymbol{a}{\ }\hlkeyword{+}{\ }\hlsymbol{b1}{\ }\hlkeyword{*}{\ }\hlsymbol{AFRICA}{\ }\hlkeyword{+}\hspace*{\fill}\\
+\hlstd{}{\ }{\ }{\ }{\ }{\ }{\ }{\ }{\ }\hlsymbol{b2}{\ }\hlkeyword{*}{\ }\hlsymbol{z}{\ }\hlkeyword{+}{\ }\hlsymbol{b3}{\ }\hlkeyword{*}{\ }\hlsymbol{AFRICA}{\ }\hlkeyword{*}{\ }\hlsymbol{z}\hlkeyword{)}\hlkeyword{)}\hlkeyword{)}\hspace*{\fill}\\
+\hlstd{}{\ }{\ }{\ }{\ }\hlsymbol{mu}{\ }\hlassignement{\usebox{\hlnormalsizeboxlessthan}-}{\ }\hlfunctioncall{sapply}\hlkeyword{(}\hlsymbol{rug.seq}\hlkeyword{,}{\ }\hlkeyword{function}\hlkeyword{(}\hlformalargs{z}\hlkeyword{)}{\ }\hlfunctioncall{with}\hlkeyword{(}\hlsymbol{mu.coef}\hlkeyword{,}{\ }\hlsymbol{a}{\ }\hlkeyword{+}{\ }\hlsymbol{b1}{\ }\hlkeyword{*}{\ }\hlsymbol{AFRICA}{\ }\hlkeyword{+}\hspace*{\fill}\\
+\hlstd{}{\ }{\ }{\ }{\ }{\ }{\ }{\ }{\ }\hlsymbol{b2}{\ }\hlkeyword{*}{\ }\hlsymbol{z}{\ }\hlkeyword{+}{\ }\hlsymbol{b3}{\ }\hlkeyword{*}{\ }\hlsymbol{AFRICA}{\ }\hlkeyword{*}{\ }\hlsymbol{z}\hlkeyword{)}\hlkeyword{)}\hspace*{\fill}\\
+\hlstd{}{\ }{\ }{\ }{\ }\hlfunctioncall{plot}\hlkeyword{(}\hlsymbol{log.GDP}{\ }\hlkeyword{\urltilda{}}{\ }\hlsymbol{rugged}\hlkeyword{,}{\ }\hlargument{data}{\ }\hlargument{=}{\ }\hlsymbol{d.noS}\hlkeyword{[}\hlsymbol{d.noS}\hlkeyword{\usebox{\hlnormalsizeboxdollar}}\hlsymbol{Africa.i}{\ }=={\ }\hlnumber{1}\hlkeyword{,}{\ }\hlkeyword{]}\hlkeyword{,}{\ }\hlargument{ylim}{\ }\hlargument{=}{\ }\hlfunctioncall{c}\hlkeyword{(}\hlkeyword{-}\hlnumber{3.5}\hlkeyword{,}\hspace*{\fill}\\
+\hlstd{}{\ }{\ }{\ }{\ }{\ }{\ }{\ }{\ }\hlnumber{3.5}\hlkeyword{)}\hlkeyword{,}{\ }\hlargument{main}{\ }\hlargument{=}{\ }\hlstring{"Africa"}\hlkeyword{,}{\ }\hlargument{col}{\ }\hlargument{=}{\ }\hlfunctioncall{col.alpha}\hlkeyword{(}\hlstring{"gray"}\hlkeyword{,}{\ }\hlnumber{0.9}\hlkeyword{)}\hlkeyword{)}\hspace*{\fill}\\
+\hlstd{}{\ }{\ }{\ }{\ }\hlfunctioncall{lines}\hlkeyword{(}\hlsymbol{CI}\hlkeyword{[}\hlnumber{1}\hlkeyword{,}{\ }\hlkeyword{]}{\ }\hlkeyword{\urltilda{}}{\ }\hlsymbol{rug.seq}\hlkeyword{,}{\ }\hlargument{lty}{\ }\hlargument{=}{\ }\hlnumber{2}\hlkeyword{)}\hspace*{\fill}\\
+\hlstd{}{\ }{\ }{\ }{\ }\hlfunctioncall{lines}\hlkeyword{(}\hlsymbol{CI}\hlkeyword{[}\hlnumber{2}\hlkeyword{,}{\ }\hlkeyword{]}{\ }\hlkeyword{\urltilda{}}{\ }\hlsymbol{rug.seq}\hlkeyword{,}{\ }\hlargument{lty}{\ }\hlargument{=}{\ }\hlnumber{2}\hlkeyword{)}\hspace*{\fill}\\
+\hlstd{}{\ }{\ }{\ }{\ }\hlfunctioncall{lines}\hlkeyword{(}\hlsymbol{PI}\hlkeyword{[}\hlnumber{1}\hlkeyword{,}{\ }\hlkeyword{]}{\ }\hlkeyword{\urltilda{}}{\ }\hlsymbol{rug.seq}\hlkeyword{,}{\ }\hlargument{lty}{\ }\hlargument{=}{\ }\hlnumber{3}\hlkeyword{)}\hspace*{\fill}\\
+\hlstd{}{\ }{\ }{\ }{\ }\hlfunctioncall{lines}\hlkeyword{(}\hlsymbol{PI}\hlkeyword{[}\hlnumber{2}\hlkeyword{,}{\ }\hlkeyword{]}{\ }\hlkeyword{\urltilda{}}{\ }\hlsymbol{rug.seq}\hlkeyword{,}{\ }\hlargument{lty}{\ }\hlargument{=}{\ }\hlnumber{3}\hlkeyword{)}\hspace*{\fill}\\
+\hlstd{}{\ }{\ }{\ }{\ }\hlfunctioncall{lines}\hlkeyword{(}\hlsymbol{mu}{\ }\hlkeyword{\urltilda{}}{\ }\hlsymbol{rug.seq}\hlkeyword{)}\hspace*{\fill}\\
+\hlstd{}\hlkeyword{\usebox{\hlnormalsizeboxclosebrace}}\mbox{}
+\normalfont
+\end{flushleft}
+\includegraphics{AICc-avg} \begin{flushleft}
+\ttfamily\noindent
+\hlfunctioncall{par}\hlkeyword{(}\hlsymbol{op}\hlkeyword{)}\mbox{}
+\normalfont
+\end{flushleft}
+\end{kframe}}
 \end{knitrout}
 
 Fits to data without Seychelles for averaged model (based on AICc), as well as confidence intervals for the mean and prediction intervals on the 
